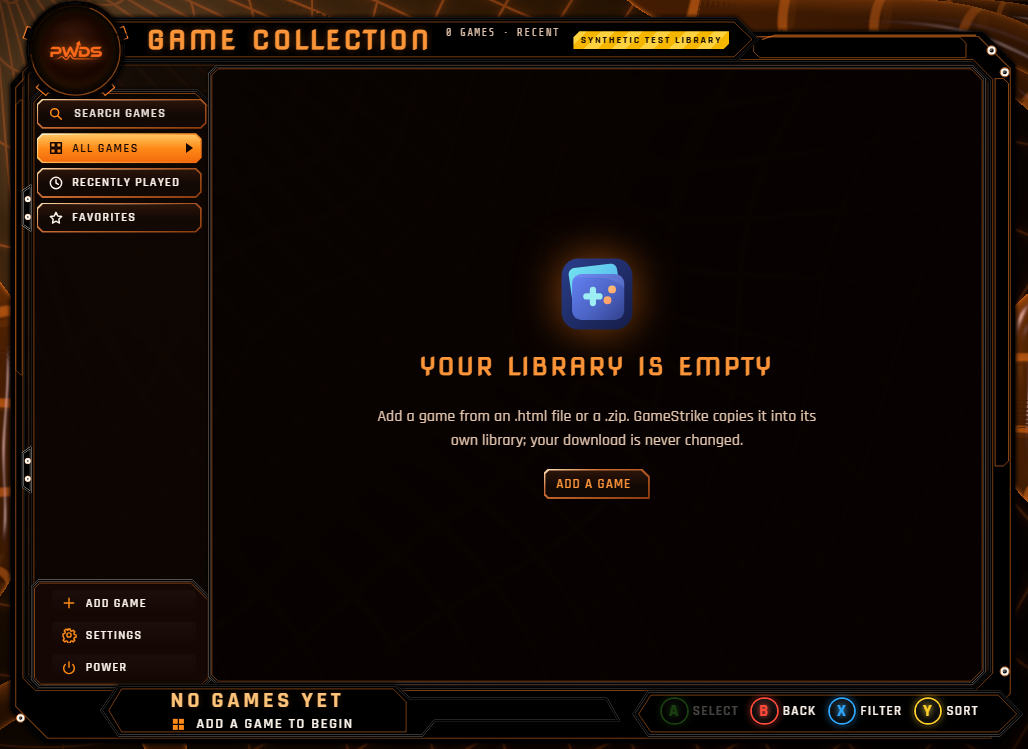
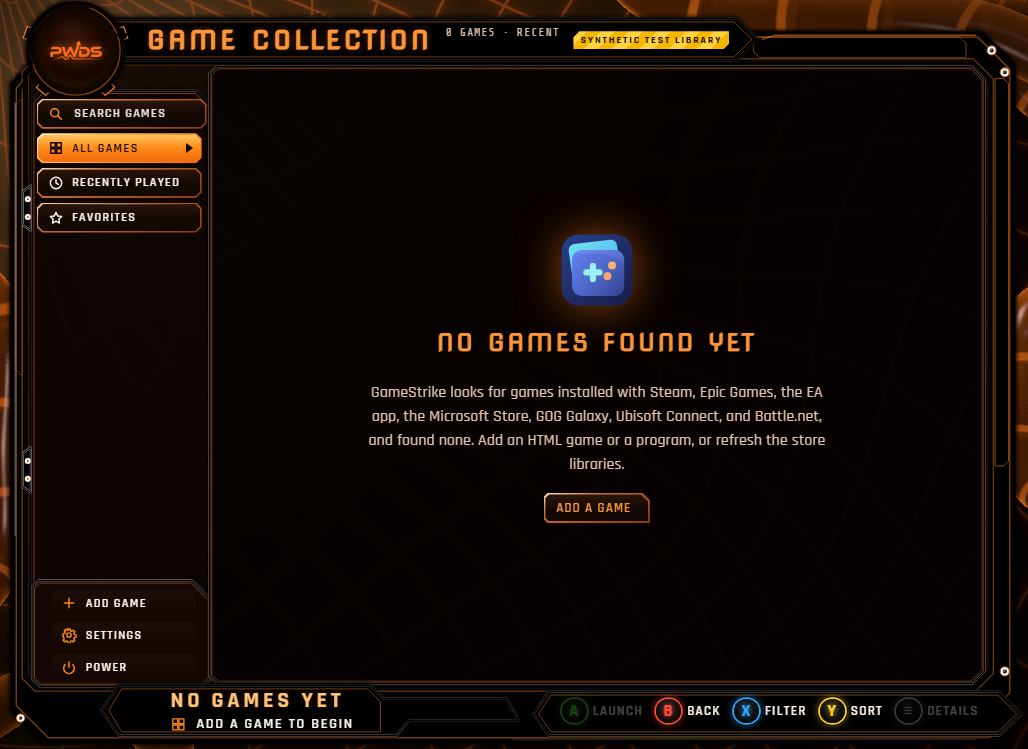
Add store library screenshots from CI and update the test counts
The top image, First launch, and four new store images (a store filter,
store game details, Add game, and Settings > Store libraries on macOS) come
from Cross-platform checks run 39416805857, rendered by the real launcher
from synthetic store fixtures with generated covers. Verification now lists
57 library tests and 25 JavaScript tests, and the Platforms table links that
run's jobs.

diff --git a/README.md b/README.md
@@ -18,7 +18,7 @@ GameStrike finds the games you have installed with Steam, Epic Games, the EA app
   <a href="#credits-and-license">Credits</a>
 </p>
 
-![GameStrike's default Collection style in PWDS orange: a thick bevelled orange frame with the PWDS logo in a round emblem and a GAME COLLECTION header tab, a sidebar of chamfered filter rows (Search games, All games selected, Recently played, Favorites, HTML files, ZIP archives, Game jam, itch.io, Newgrounds), a dense grid of illustrated covers with the selected one in a glowing orange frame, and a bottom bar with the game's title, Ready to play, and A Select, B Back, X Filter, Y Sort prompts, over a dark warped net with glossy tubes](docs/screenshots/library.png)
+![GameStrike's default Collection style in PWDS orange: a thick bevelled orange frame with the PWDS logo in a round emblem and a GAME COLLECTION header tab, a sidebar of chamfered filter rows (Search games, All games selected, Recently played, Favorites, then one row per store with games: Steam, Epic, EA, MS Store, GOG, Ubisoft, Battle.net, Custom), a dense grid of synthetic store games and HTML games with generated covers, the selected one in a glowing orange frame, and a bottom bar with Synthetic Ember Tactics, Ready to play · Steam, and A Launch, B Back, X Filter, Y Sort, Details prompts, over a dark warped net with glossy tubes](docs/screenshots/library.png)
 
 > [!IMPORTANT]
 > **Early, unreleased software.** There is no installer or signed binary yet; you build it from source. Imported games are untrusted code. Offline mode blocks their network traffic, but the player is **not** an operating-system sandbox. Read [Limitations](#limitations) before running games you don't trust.
@@ -64,7 +64,14 @@ Everything in this section is implemented in this repository and covered by the 
 
 ## Screenshots
 
-Every launcher image below was rendered by the real `gamestrike-launcher` in GitHub Actions ([Cross-platform checks run 39381032589](https://github.com/Gerbzz/GameStrike/actions/runs/39381032589)) through the `--capture-preview` option: WebView2 on Windows, WebKitGTK under Xvfb on Linux, and WKWebView on macOS. Each Collection capture's log reports that WebGL drew the dome at the "high" quality step on all three systems. Captures render still frames with the camera at its station (the *Camera move* capture freezes the flight halfway), so the drift, the slowly turning net, and the tube pulses are not shown. Frame rates were not measured; CI runners are virtual machines, and the macOS runner crops its captures to 1024 × 645. Every game shown is from a library marked **synthetic test data** (hence the badge), with box art GameStrike drew and two test images it generated; no third-party game or art appears. They are not mockups.
+Every launcher image on this page was rendered by the real `gamestrike-launcher` in GitHub Actions through the `--capture-preview` option. The top image, *First launch*, and the store library images come from [Cross-platform checks run 39416805857](https://github.com/Gerbzz/GameStrike/actions/runs/39416805857); the rest come from the earlier [run 39381032589](https://github.com/Gerbzz/GameStrike/actions/runs/39381032589), before store libraries were added. WebView2 renders them on Windows, WebKitGTK under Xvfb on Linux, and WKWebView on macOS. Each Collection capture's log reports that WebGL drew the dome at the "high" quality step on all three systems. Captures render still frames with the camera at its station (the *Camera move* capture freezes the flight halfway), so the drift, the slowly turning net, and the tube pulses are not shown. Frame rates were not measured; CI runners are virtual machines, and the macOS runner crops its captures to 1024 × 645. Every game shown is from a library marked **synthetic test data** (hence the badge), with box art GameStrike drew and test images it generated; no third-party game or art appears. The store games come from synthetic fixtures (`scripts/make-store-fixtures.cjs`): a fake Steam folder, Epic manifests, and a registry snapshot, every game named *Synthetic ...*, with generated stand-ins for Steam's cached art. No real store install was read. They are not mockups.
+
+**Store libraries** (run 39416805857):
+
+| | |
+| --- | --- |
+| ![The Steam row selected in the sidebar, with five synthetic Steam games and their covers from the fixture's library cache](docs/screenshots/stores.png) **A store filter** (Linux): each store with games gets a row with its own glyph and count. | ![Details of Synthetic Ember Tactics: the cover in the cradle and an info panel with Store Steam, the install folder in its real case, plays, last played, starts with Steam, and found; actions include Open install folder and Hide game](docs/screenshots/store-detail.png) **Store game details** (Windows): the store, install folder, and *Open install folder*. |
+| ![Add to your collection dialog with Add a program or shortcut, Add an HTML game, Refresh store libraries, and Back](docs/screenshots/add-menu.png) **Add game** (Linux): a program, an HTML game, or a store rescan. | ![Store libraries settings on macOS: Steam on with 5 games, Custom on with 1 game, and the other stores greyed out as Windows only](docs/screenshots/store-settings.png) **Settings → Store libraries** (macOS): each store can be turned off; stores this OS does not support say so. |
 
 | | |
 | --- | --- |
@@ -73,7 +80,7 @@ Every launcher image below was rendered by the real `gamestrike-launcher` in Git
 | ![Saves panel with game data, what is stored, Clear saves, Remove from library, and Back to game](docs/screenshots/saves.png) **Manage saves** (Linux). | ![The Game jam source filter selected in the sidebar, with its two games in the grid](docs/screenshots/filters.png) **A source filter** (Windows): sources the player wrote become sidebar rows. |
 | ![Search results for orbit](docs/screenshots/search.png) **Search** (macOS). | ![Settings panel with Style: Collection: PWDS Orange, Sounds, About, and Back](docs/screenshots/settings.png) **Settings** (Linux): style, sounds, and About. |
 | ![Network consent dialog over the game's details](docs/screenshots/network-dialog.png) **Network consent** (Windows). Offline is the default. | ![Startup: the GameStrike mark in a glowing orange core inside rings, with GAMESTRIKE by PWDS](docs/screenshots/boot.png) **Startup** (Linux), near its end. |
-| ![Empty library with an Add a game button](docs/screenshots/empty-library.png) **First launch** (Windows). | ![Library at the 880 by 620 minimum window size, five columns, with the status line in the bottom bar](docs/screenshots/minimum-880x620.png) **Minimum window size**, 880 × 620 (Linux). |
+| ![Empty library: No games found yet, a note that GameStrike looked for games from Steam, Epic Games, the EA app, the Microsoft Store, GOG Galaxy, Ubisoft Connect, and Battle.net, and an Add a game button](docs/screenshots/empty-library.png) **First launch** (Windows), with no store games found. | ![Library at the 880 by 620 minimum window size, five columns, with the status line in the bottom bar](docs/screenshots/minimum-880x620.png) **Minimum window size**, 880 × 620 (Linux). |
 | ![About dialog with the GameStrike mark, the PWDS publisher logo, and the font and three.js credits](docs/screenshots/about.png) **About** (macOS). | ![Player window titled Save Counter (Synthetic Test), GameStrike, Offline, showing localStorage points 2 and IndexedDB opens 1](docs/screenshots/player-offline-save-counter.png) **A game in its own offline player window** (Windows, from the manual run at `c888e7e`; the player is unchanged). |
 
 **The earlier styles**, unchanged and still selectable (same run, Linux):
@@ -91,9 +98,9 @@ Only platforms that GitHub Actions has built **and** tested, including the real 
 
 | Platform | Engine | Status | Evidence |
 | --- | --- | --- | --- |
-| Windows (CI: `windows-latest`, Windows Server 2025 image) | WebView2 | **Supported** | [CI run 39381032589, windows job](https://github.com/Gerbzz/GameStrike/actions/runs/39381032589/job/118489949975): fmt, clippy, Rust and JS tests, real-player isolation test, release build, player smoke test, launcher captures |
-| Linux x64 (CI: `ubuntu-latest`, Ubuntu 24.04) | WebKitGTK 4.1 (2.52.6 in CI) | **Supported** | [same run, ubuntu job](https://github.com/Gerbzz/GameStrike/actions/runs/39381032589/job/118489950087): the same steps, with the player and launcher windows under Xvfb |
-| macOS 14 or later (CI: `macos-latest`, macOS 26.6 on Apple silicon; 14 and 15 not tested) | WKWebView | **Supported** | [same run, macOS job](https://github.com/Gerbzz/GameStrike/actions/runs/39381032589/job/118489949742): the same steps |
+| Windows (CI: `windows-latest`, Windows Server 2025 image) | WebView2 | **Supported** | [CI run 39416805857, windows job](https://github.com/Gerbzz/GameStrike/actions/runs/39416805857/job/118607705853): fmt, clippy, Rust and JS tests, real-player isolation test, release build, player smoke test, launcher captures |
+| Linux x64 (CI: `ubuntu-latest`, Ubuntu 24.04) | WebKitGTK 4.1 (2.52.6 in CI) | **Supported** | [same run, ubuntu job](https://github.com/Gerbzz/GameStrike/actions/runs/39416805857/job/118607706165): the same steps, with the player and launcher windows under Xvfb |
+| macOS 14 or later (CI: `macos-latest`, macOS 26.6 on Apple silicon; 14 and 15 not tested) | WKWebView | **Supported** | [same run, macOS job](https://github.com/Gerbzz/GameStrike/actions/runs/39416805857/job/118607706357): the same steps |
 
 Platform caveats that apply even when a platform is verified:
 - **Linux and macOS:** WebRTC is switched off for games in both offline and network mode, because WebKit offers no way to limit its UDP to the proxy. Games that need WebRTC will not work there.
@@ -172,8 +179,8 @@ Linux and macOS results come from CI only; see [Platforms](#platforms) and the p
 Results as of 2026-10-17 on Windows 11 Pro, WebView2 runtime as installed on the dev PC and on GitHub's `windows-latest` runner.
 
 **Automated, all passing in [cross-platform CI](https://github.com/Gerbzz/GameStrike/actions/workflows/cross-platform.yml) on Windows, Linux, and macOS:**
-- Rust: 38 library tests, 14 player tests (15 on Linux and macOS), 9 launcher tests, and 2 player command-line tests, plus the real-player isolation test. Besides the areas below, they cover cover decoding and its limits (including a forged 9000 × 9000 PNG header), custom, automatic, undone, and reset covers, sources and favorites, the cover endpoint, that every bundled UI file is served and every module import resolves, and that the earlier styles' capture views open their own page. They cover zip-slip, drive paths, device names, corrupt and empty files, expansion limits, duplicate and legacy re-imports, removal with and without saves, restoring kept saves, clearing saves, the per-game lock, rename validation, tolerant scanning, missing files, the launcher's origin and command allow-list, and CSP headers.
-- JavaScript: 22 tests of sorting, search, the sidebar filters built from library data, the source rule, cover URLs, grid reflow and list movement, the style list and its cycle, the Collection scale and column count, the generated box art rules, the seeded random generator, the dome net, the earlier shelf and perspective helpers, controller edge detection and repeat, and formatting.
+- Rust: 57 library tests (19 of them for the store scanners, the launch allow-list, and the store catalog), 14 player tests (15 on Linux and macOS), 9 launcher tests, and 2 player command-line tests, plus the real-player isolation test. Besides the areas below, they cover cover decoding and its limits (including a forged 9000 × 9000 PNG header), custom, automatic, undone, and reset covers, sources and favorites, the cover endpoint, that every bundled UI file is served and every module import resolves, that the earlier styles' capture views open their own page, and that the launcher refuses store commands carrying a link or a path. They cover zip-slip, drive paths, device names, corrupt and empty files, expansion limits, duplicate and legacy re-imports, removal with and without saves, restoring kept saves, clearing saves, the per-game lock, rename validation, tolerant scanning, missing files, the launcher's origin and command allow-list, and CSP headers.
+- JavaScript: 25 tests of sorting, search, the sidebar filters built from library data (store rows only for stores with games, Hidden), store status lines, the menu button, the source rule, cover URLs, grid reflow and list movement, the style list and its cycle, the Collection scale and column count, the generated box art rules, the seeded random generator, the dome net, the earlier shelf and perspective helpers, controller edge detection and repeat, and formatting.
 - **Real player isolation test** (`tests/player_isolation.rs`). It runs the real WebView2 player against a bundled probe page, with a harness listening on loopback over TCP and UDP.
   - Offline, twice: 0 TCP and 0 UDP connections reached the harness. Fetch, XHR, WebSocket, image, `file://`, other-origin requests, and popups were all blocked.
   - Network mode, as a control: the same probe reached the harness (8 TCP connections, 4 UDP packets), which shows the offline zeros mean "blocked", not "unobservable".
